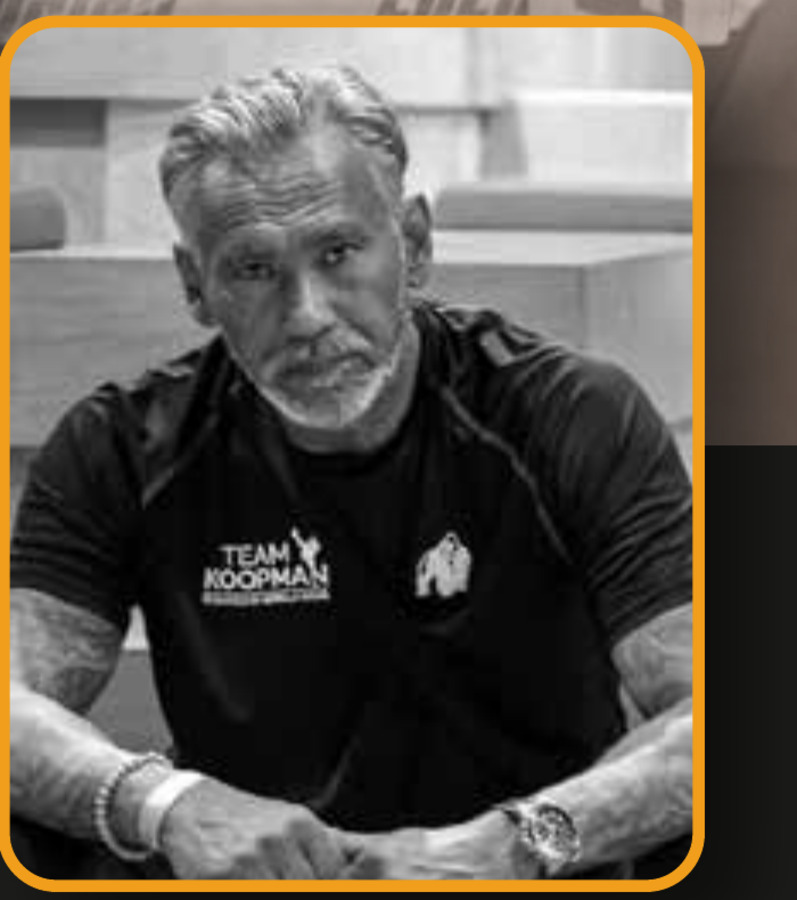
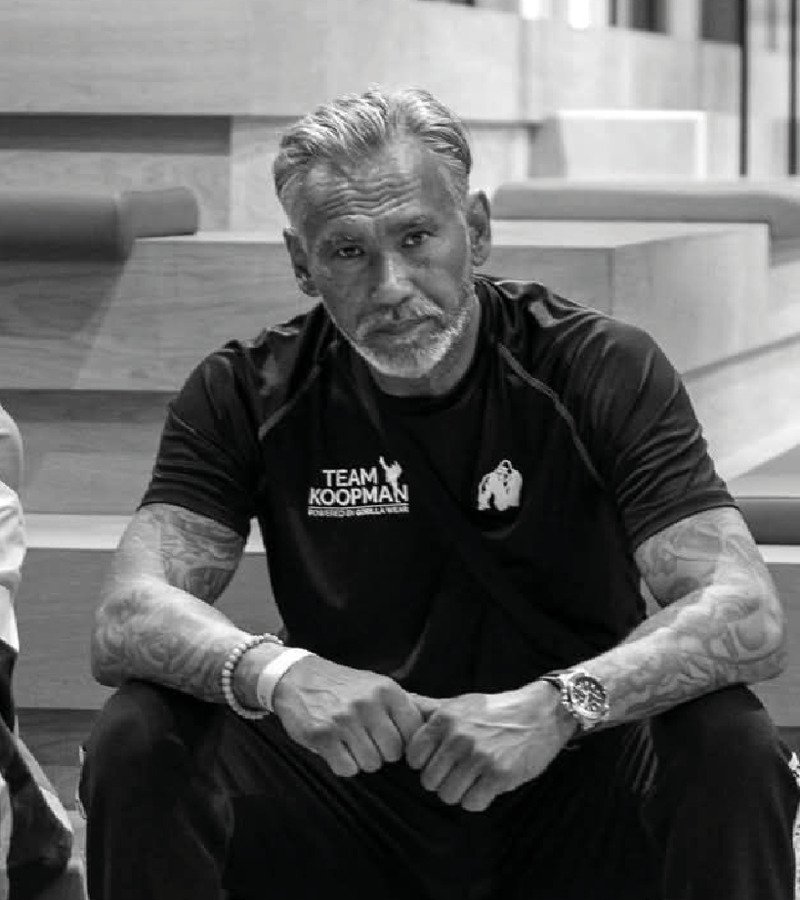
Update photos and add location section
- Replace trainer portrait with a sharper, more professional shot
- Replace kids training photo with a bigger group shot including gear
- Re-crop sparring photo to better frame the actual sparring action
- Add new "Onze Locatie" section with a storefront photo
- Point Adcraft credit link to www.adcraft.nl

diff --git a/index.html b/index.html
@@ -255,6 +255,18 @@
     </div>
   </section>
 
+  <!-- LOCATIE -->
+  <section class="section section-alt" id="locatie">
+    <div class="container">
+      <p class="section-eyebrow">Waar je ons vindt</p>
+      <h2 class="section-title">Onze Locatie</h2>
+      <div class="location-photo">
+        <img src="assets/img/photo-locatie.jpg" alt="Gorilla Gym en Gorilla Wear pand aan de Bornerbroeksestraat in Almelo">
+      </div>
+      <p class="location-caption">Bornerbroeksestraat 457H, 7607 JT Almelo — bij Gorilla Wear</p>
+    </div>
+  </section>
+
   <!-- CONTACT / CTA -->
   <section class="section cta-section" id="contact">
     <div class="container">
@@ -301,7 +313,7 @@
 <div class="credit-bar">
   <div class="container credit-bar-inner">
     <p>Website ontwikkeld door <strong>Adcraft</strong></p>
-    <a href="https://adcraft.nl" target="_blank" rel="noopener" aria-label="Adcraft — Wij bouwen digitale groei">
+    <a href="https://www.adcraft.nl" target="_blank" rel="noopener" aria-label="Adcraft — Wij bouwen digitale groei">
       <img src="assets/img/adcraft-logo.png" alt="Adcraft" class="credit-logo">
     </a>
   </div>

diff --git a/style.css b/style.css
@@ -423,6 +423,24 @@ blockquote footer {
 
 .testimonial-content p { color: var(--white-dim); font-size: 1.02rem; }
 
+/* ---------- Locatie ---------- */
+.location-photo {
+  border-radius: var(--radius);
+  overflow: hidden;
+  border: 1px solid var(--gray-border);
+  max-width: 900px;
+  margin: 0 auto;
+}
+
+.location-photo img { width: 100%; display: block; }
+
+.location-caption {
+  text-align: center;
+  color: var(--white-dim);
+  font-size: 0.95rem;
+  margin: 20px 0 0;
+}
+
 /* ---------- Champions ---------- */
 .champions-grid {
   display: grid;
